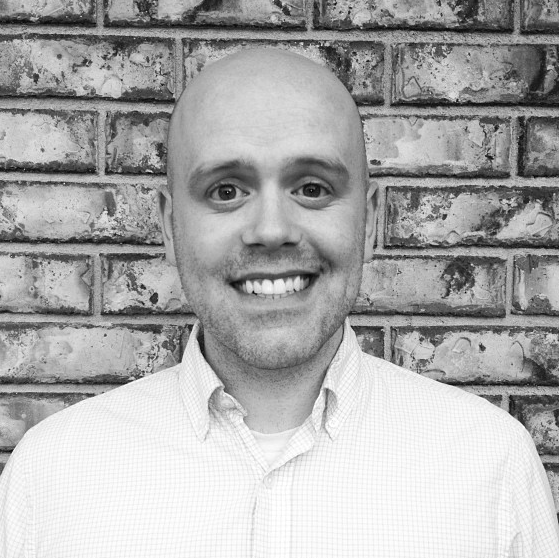
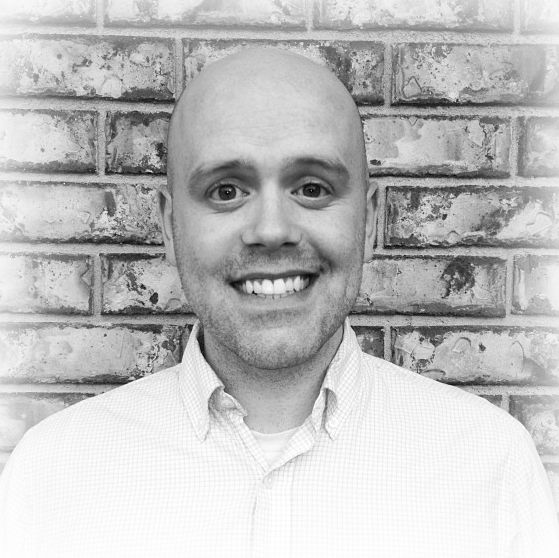
tried something different with the image

Changed region(s): [[0.0, 0.0, 1.0, 1.0], [0.0, 0.9444, 0.0304, 1.0]]

diff --git a/css/main.css b/css/main.css
@@ -40,18 +40,21 @@ table {
 /*
 /*****************************************************************************/
 ul.posts {
+  font-family: 'Noto Sans', sans-serif;
   list-style-type: none;
-  margin-bottom: 2em;
+  padding-left: 0;
+  width: 100%;
 }
 
 ul.posts li {
-  line-height: 1.75em;
+  width: 100%;
+  margin: 5px 0;
 }
 
 ul.posts span {
-  color: #aaa;
-  font-family: Monaco, "Courier New", monospace;
-  font-size: 80%;
+  font-family: 'Noto Sans', sans-serif;
+  list-style-type: none;
+  padding-left: 0;
 }
 
 /*****************************************************************************/
@@ -78,7 +81,7 @@ ul.posts span {
   font-size: 4em;
   text-align: center;    
   display: inline-block;
-  margin: 2em 0;
+  margin: 1em 0;
 }
 
 .site .header h1.title a {
@@ -92,6 +95,11 @@ ul.posts span {
 .site .header a.extra {
   color: #aaa;
   margin-left: 1em;
+}
+
+.site img {
+  height: 150px;
+  display: inline-block;
 }
 
 .site .header a.extra:hover {
@@ -165,4 +173,11 @@ ul.posts span {
 
 #post pre.terminal code {
   background-color: #333;
+}
+
+
+.time {
+  float: right;
+  font-family: 'Roboto Slab', serif;
+  font-weight: 300;
 }

diff --git a/index.html b/index.html
@@ -7,7 +7,7 @@ title: Matthew Duff
   <h1>Blog Posts</h1>
   <ul class="posts">
     {% for post in site.posts %}
-      <li><span>{{ post.date | date_to_string }}</span> &raquo; <a href="{{ post.url }}">{{ post.title }}</a></li>
+      <li><span>{{ post.date | date_to_string }}</span> <a href="{{ post.url }}">{{ post.title }}</a></li>
     {% endfor %}
   </ul>
 </div>

diff --git a/_layouts/default.html b/_layouts/default.html
@@ -26,7 +26,7 @@
                 src='matt_bricks.png'
                 alt="stackin paper"
                 class='me'
-                height='272.67'>     
+                height='175'>     
 
                 {{ content }}
 
